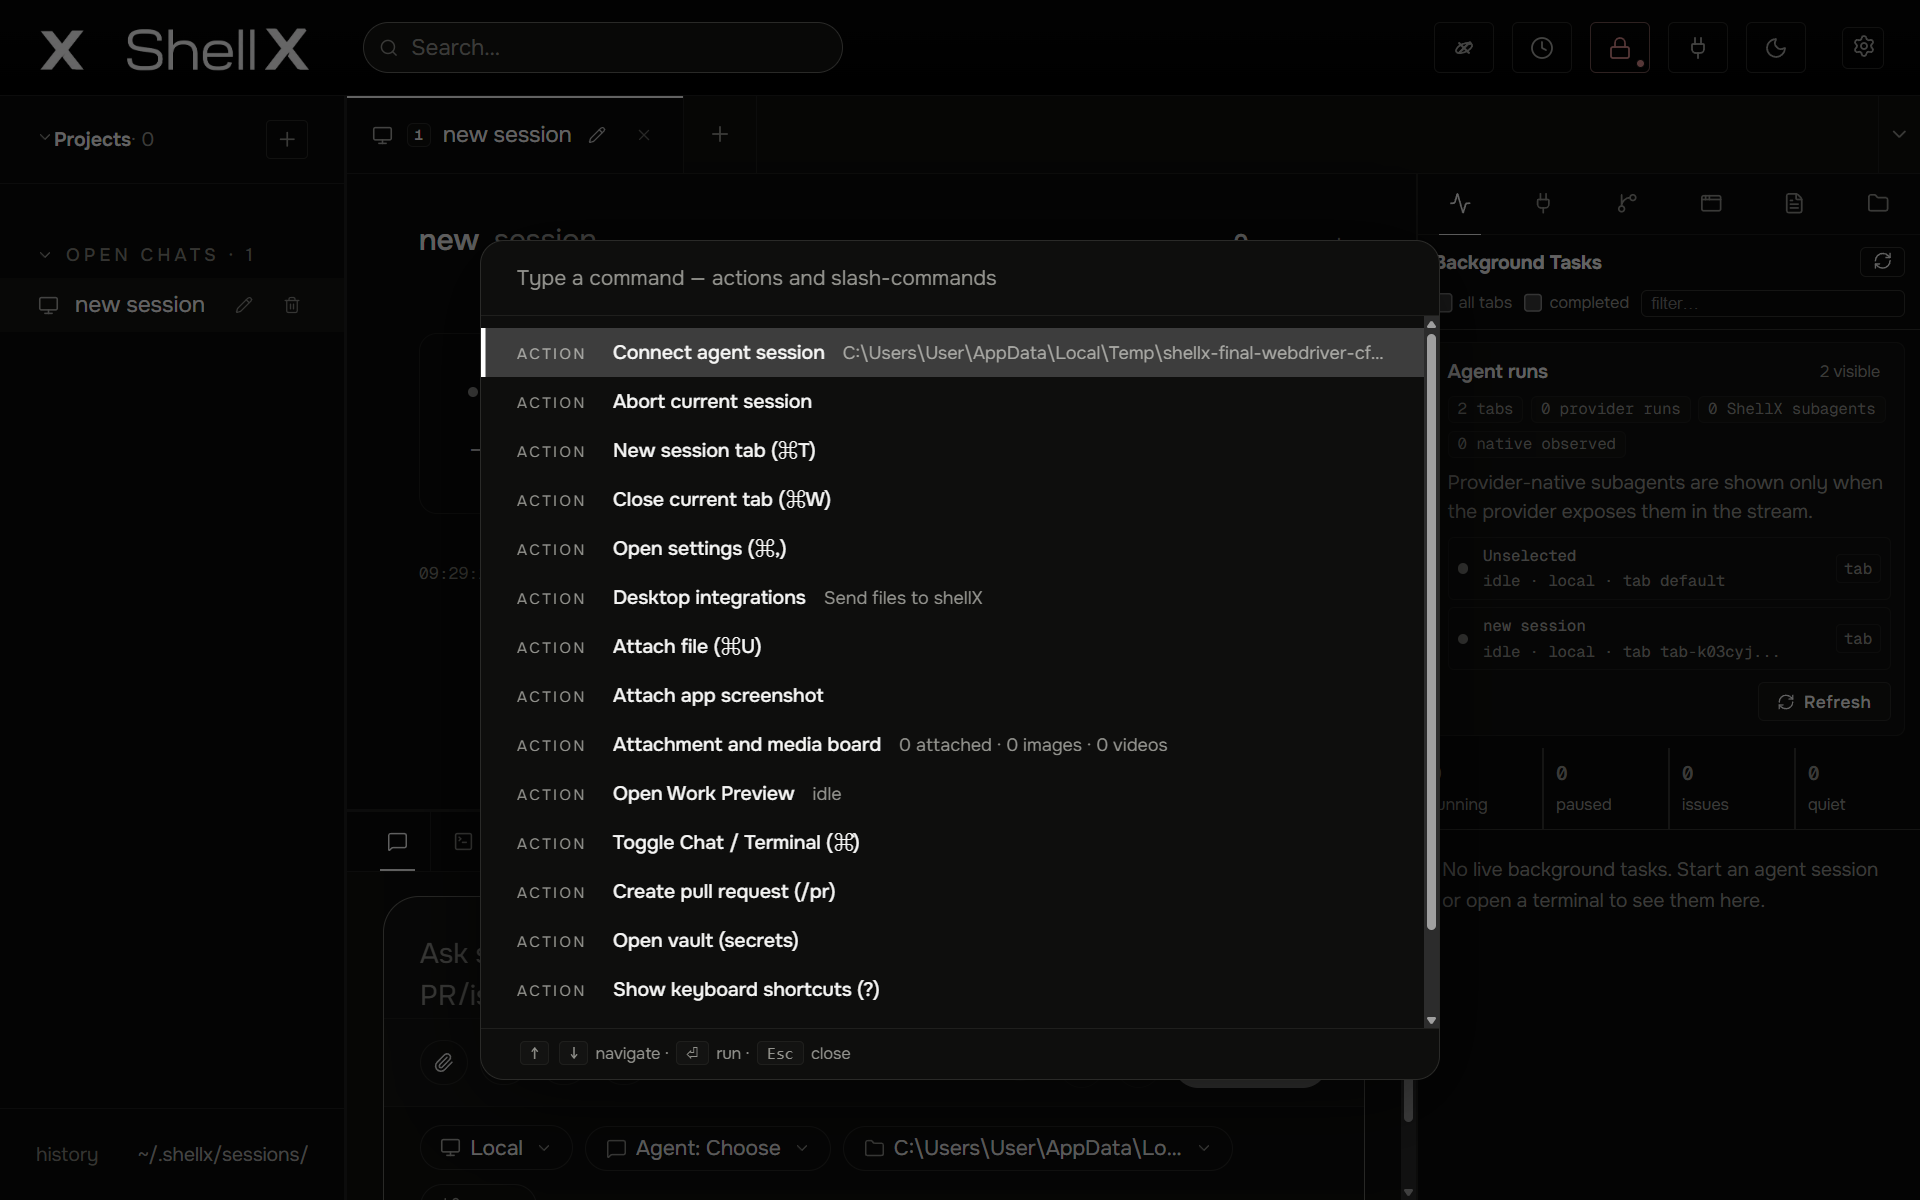
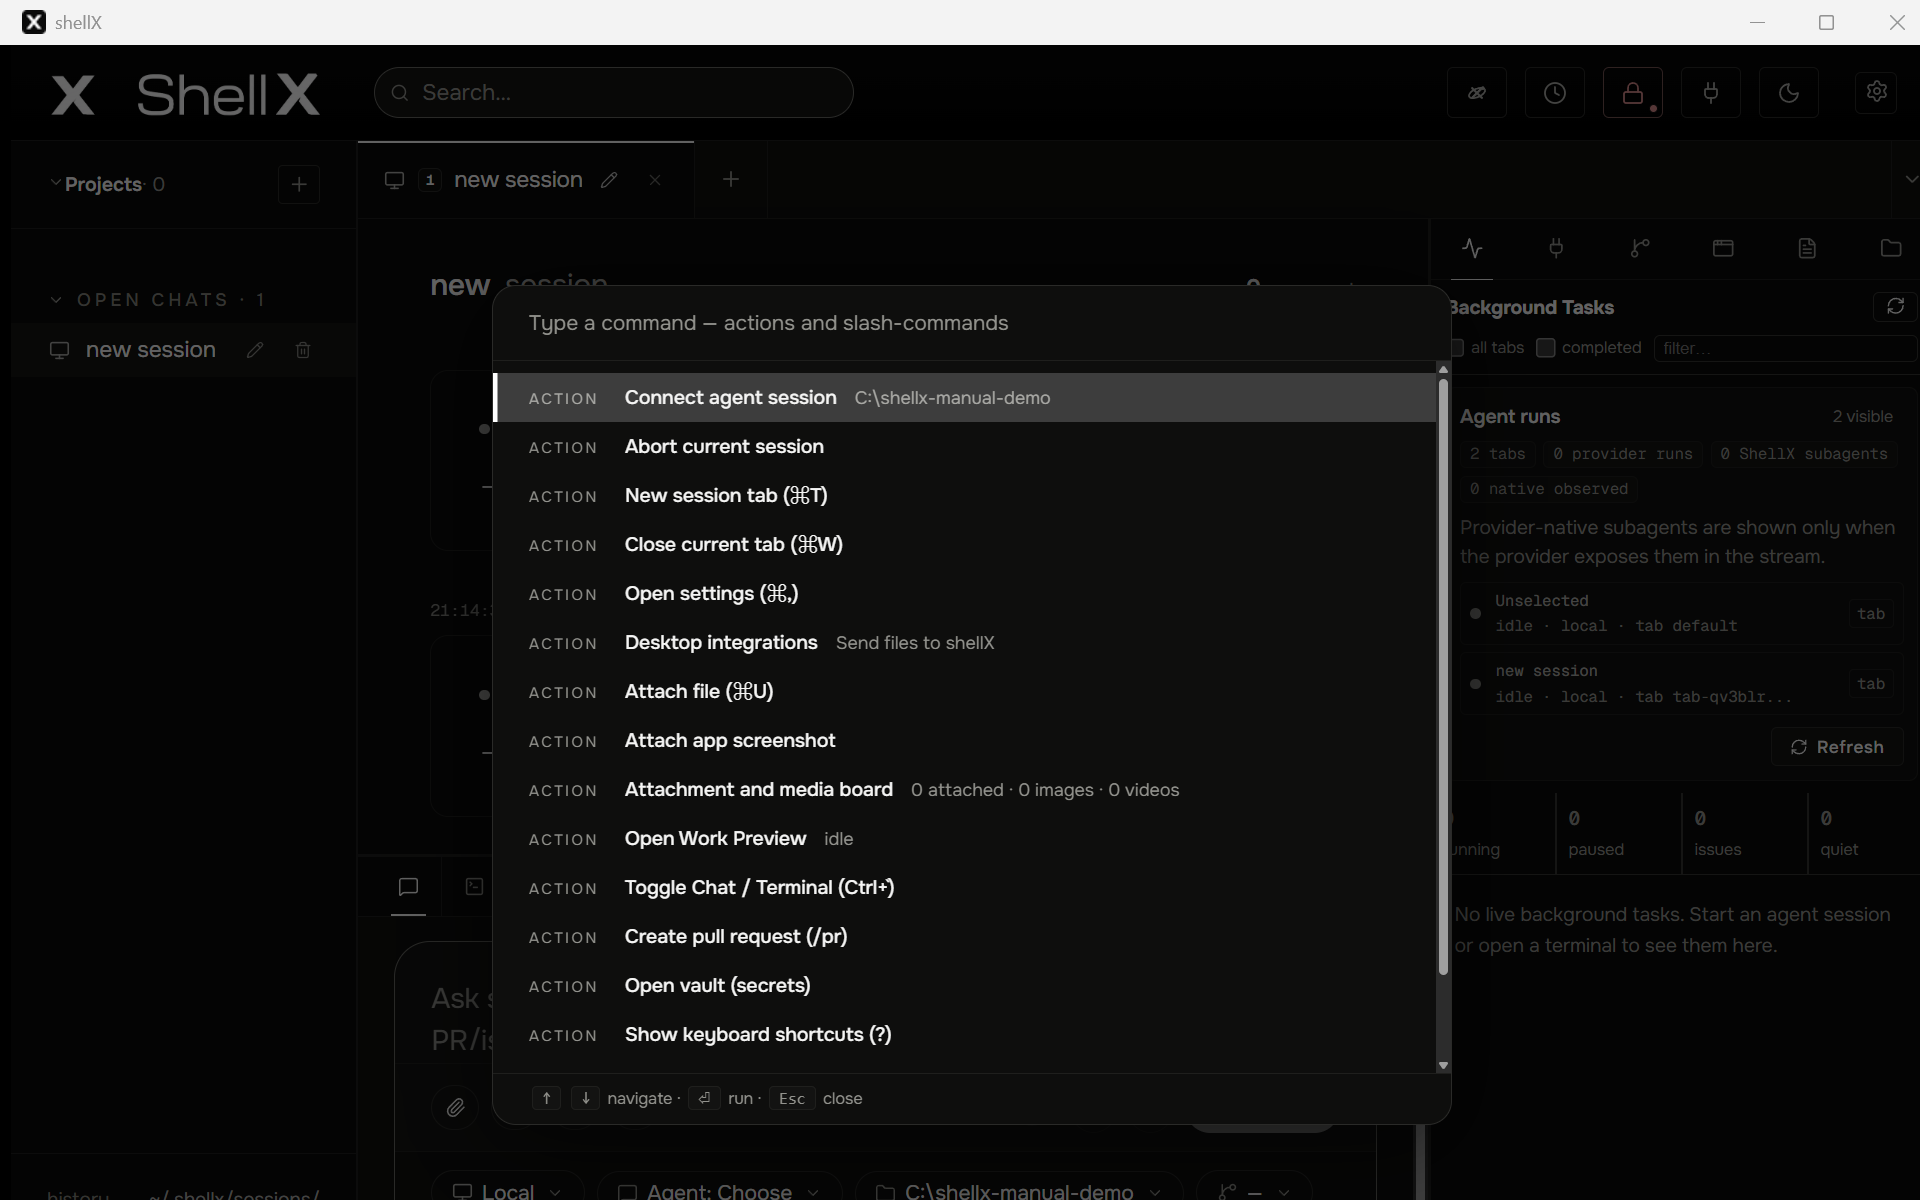
fix(shortcuts): use portable terminal toggle chord

diff --git a/scripts/test-keyboard-accessibility.ts b/scripts/test-keyboard-accessibility.ts
@@ -135,15 +135,13 @@ assert(css.includes(".ctxmenu-action:focus-visible") && css.includes(".fv-row-ma
 assert(shortcuts.includes('id: "palette"') && shortcuts.includes('desc: "Open command palette"'));
 const toggleTerminal = SHORTCUTS.find((shortcut) => shortcut.id === "toggle-terminal");
 assert(toggleTerminal, "toggle-terminal shortcut must remain registered");
-const platformCommandModifier = typeof navigator !== "undefined"
-  && /Mac|iPhone|iPad/.test(navigator.platform)
-  ? { ctrlKey: false, metaKey: true }
-  : { ctrlKey: true, metaKey: false };
+assert.equal(toggleTerminal.keys, "Ctrl+`", "the terminal shortcut label must describe the cross-platform chord");
 assert(
   toggleTerminal.match({
     key: "§",
     code: "Backquote",
-    ...platformCommandModifier,
+    ctrlKey: true,
+    metaKey: false,
   } as KeyboardEvent),
   "the terminal shortcut must recognize the physical Backquote key on non-US keyboard layouts",
 );
@@ -151,9 +149,19 @@ assert(
   !toggleTerminal.match({
     key: "§",
     code: "Digit1",
-    ...platformCommandModifier,
+    ctrlKey: true,
+    metaKey: false,
   } as KeyboardEvent),
   "the terminal shortcut must not broaden to unrelated physical keys",
+);
+assert(
+  !toggleTerminal.match({
+    key: "`",
+    code: "Backquote",
+    ctrlKey: false,
+    metaKey: true,
+  } as KeyboardEvent),
+  "the terminal shortcut must not advertise macOS Command+Backquote, which the OS reserves for window cycling",
 );
 assert(
   !SHORTCUTS.some((shortcut) => shortcut.id === "cycle-autonomy")

diff --git a/src/App.tsx b/src/App.tsx
@@ -24,7 +24,7 @@
  * ⌘K / Ctrl+K  command palette
  * ⌘T / ⌘W      new / close session tab
  * ⌘U           attach file picker
- * ⌘`           toggle Chat ↔ Terminal in bottom panel
+ * Ctrl+`       toggle Chat ↔ Terminal in bottom panel
  * ⌘,           open settings
  * j/k/y/n/e    per-hunk diff nav (handled inside ChatOutput)
  * * File attach: picker, OS drag/drop, pasted clipboard images/files, and
@@ -5749,7 +5749,7 @@ export default function App(): JSX.Element {
             run: () => void handleAskGrokToFixPreview(activeWorkPreviewState),
           }]
         : []),
-      { id: "act-toggle-term", label: "Toggle Chat / Terminal (⌘`)", group: "Action", run: toggleTerminalTab },
+      { id: "act-toggle-term", label: "Toggle Chat / Terminal (Ctrl+`)", group: "Action", run: toggleTerminalTab },
       { id: "act-pr", label: "Create pull request (/pr)", group: "Action", run: () => setPrModalOpen(true) },
       { id: "act-vault", label: "Open vault (secrets)", group: "Action", run: () => openVaultPanel("overview") },
       { id: "act-help",     label: "Show keyboard shortcuts (?)", group: "Action", run: () => setHelpOpen(true) },

diff --git a/src/components/BottomPanel.tsx b/src/components/BottomPanel.tsx
@@ -211,7 +211,7 @@ export function highlightSlashTokens(text: string): React.ReactNode[] {
 /**
  * Read the persisted bottom-tab on init. Exported so the parent
  * (App.tsx) can initialize its controlled state to match localStorage —
- * keeps the ⌘` toggle correct on first paint.
+ * keeps the Ctrl+` toggle correct on first paint.
  */
 export function readPersistedBottomTab(): BottomTab {
   try {
@@ -258,7 +258,7 @@ export function BottomPanel({
   connected,
   events,
   groups = [],
- // controlled tab — parent owns the state so ⌘`
+ // controlled tab — parent owns the state so Ctrl+`
  // can flip Chat ↔ Terminal globally. When `tab` is undefined the
  // component falls back to its own state (preserves old callers).
   tab: controlledTab,

diff --git a/src/lib/shortcuts.ts b/src/lib/shortcuts.ts
@@ -96,10 +96,12 @@ export const SHORTCUTS: ShortcutDef[] = [
   {
     id: "toggle-terminal",
     group: "Navigation",
-    keys: "⌘`",
+    keys: "Ctrl+`",
     desc: "Toggle Chat / Terminal in bottom panel",
  // `event.key` is layout-dependent; `code` keeps the physical key stable.
-    match: (e) => isCmd(e) && (e.key === "`" || e.code === "Backquote"),
+ // Ctrl is deliberate on every platform: macOS reserves Command+Backquote
+ // for cycling application windows before the renderer can receive it.
+    match: (e) => e.ctrlKey && !e.metaKey && (e.key === "`" || e.code === "Backquote"),
     skipInInput: false,
   },
 
